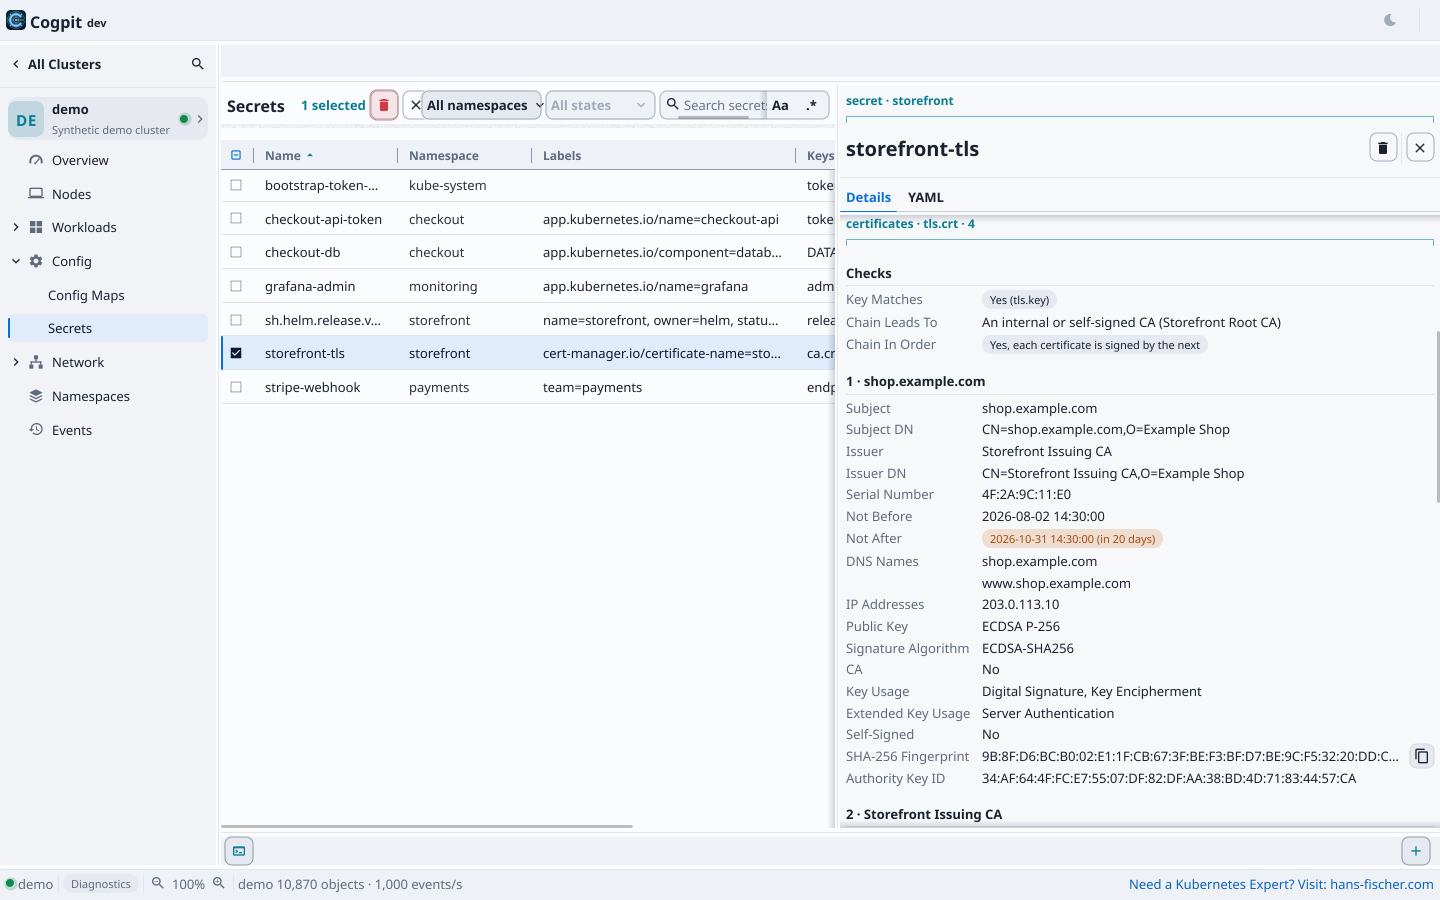
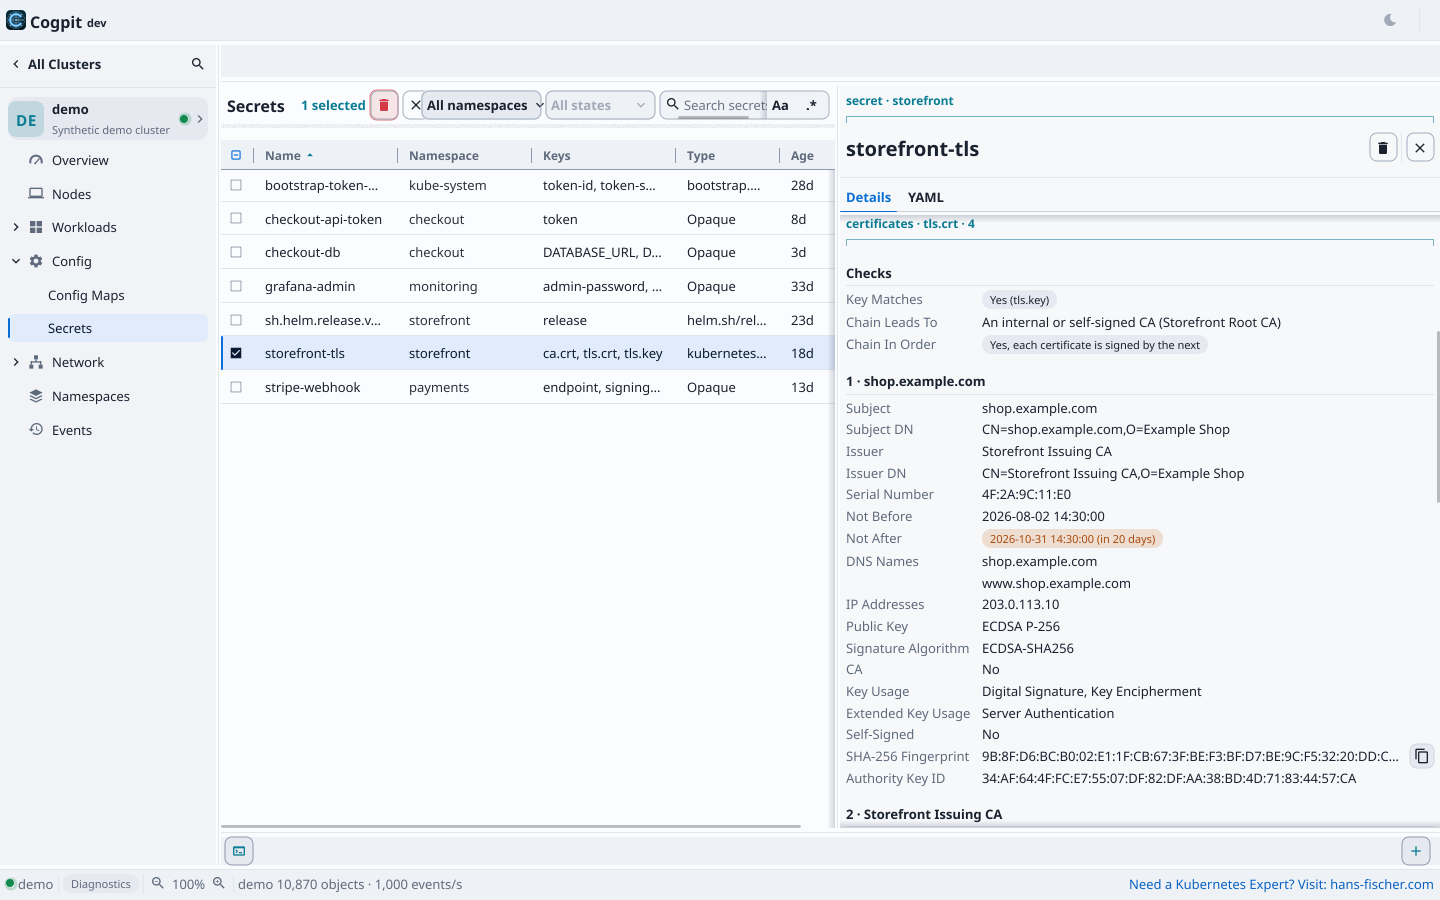
test(ui): the certificates fixture no longer sets the process's random source
certsSecretsFake made its chain under cryptotest.SetGlobalRandom, whose
cleanup writes crypto/rand.Reader back while an earlier test's HTTP/2
health check may read it: Race Tests (UI 4/5) of #161 failed with a data
race in TestDrawerCopyIconAfterThePill. The certificates are testdata
now (made once under the same seed, byte for byte the same) and the
leaf's key comes from its fixed scalar. The renders of the Secrets list
under the drawer follow #160 (Labels hidden).

Changed region(s): [[0.375, 0.1556, 0.5625, 0.4356], [0.4375, 0.9022, 0.5312, 0.9333], [0.5625, 0.1556, 0.5938, 0.1867]]

diff --git a/internal/ui/fyneui/secretcerts_test.go b/internal/ui/fyneui/secretcerts_test.go
@@ -1,47 +1,68 @@
 package fyneui
 
 import (
+	"crypto/ecdsa"
+	"crypto/elliptic"
 	"crypto/x509"
 	"encoding/base64"
+	hexenc "encoding/hex"
+	"encoding/pem"
+	"os"
+	"path/filepath"
 	"strings"
 	"testing"
-	"testing/cryptotest"
 
 	"k8s.io/apimachinery/pkg/apis/meta/v1/unstructured"
 
 	"github.com/guided-traffic/cogpit/internal/engine"
 	"github.com/guided-traffic/cogpit/internal/model"
 	"github.com/guided-traffic/cogpit/internal/model/kinds"
-	"github.com/guided-traffic/cogpit/internal/testkit"
 )
 
 // The drawer of a TLS Secret with its certificates decoded (D-30): the Secrets fixture with
 // storefront-tls holding a real chain (a leaf that expires in 20 days, an intermediate, a root) in
-// tls.crt, the root in ca.crt and the leaf's key in tls.key. Keys and signatures come from a fixed
-// seed, so the fingerprints and the PNGs are the same on every run. Every name is made up.
+// tls.crt, the root in ca.crt and the leaf's key in tls.key. The certificates are files of testdata
+// (made once by testkit.NewCert under cryptotest.SetGlobalRandom's seed 30) and the leaf's key comes
+// from its fixed scalar, so the fingerprints and the PNGs are the same on every run without the
+// process's random source set: setting it back raced with an earlier test's HTTP/2 health check
+// reading it. Every name is made up.
+
+// storefrontKeyScalar is the leaf's P-256 private scalar (a test key of a made-up name).
[1 lines of base64/hex data omitted]
+
+// storefrontKeyPEM is the leaf's key as a PKCS #8 PRIVATE KEY block, as a TLS Secret's tls.key
+// holds it.
+func storefrontKeyPEM(t *testing.T) string {
+	t.Helper()
+	raw, err := hexenc.DecodeString(storefrontKeyScalar)
+	if err != nil {
+		t.Fatal(err)
+	}
+	k, err := ecdsa.ParseRawPrivateKey(elliptic.P256(), raw)
+	if err != nil {
+		t.Fatal(err)
+	}
+	der, err := x509.MarshalPKCS8PrivateKey(k)
+	if err != nil {
+		t.Fatal(err)
+	}
+	return string(pem.EncodeToMemory(&pem.Block{Type: "PRIVATE KEY", Bytes: der}))
+}
+
+// readTestdata returns a file of testdata as text.
+func readTestdata(t *testing.T, name string) string {
+	t.Helper()
+	b, err := os.ReadFile(filepath.Join("testdata", name))
+	if err != nil {
+		t.Fatal(err)
+	}
+	return string(b)
+}
 
 // certsSecretsFake is secretsFake with the drawer open on storefront-tls, whose certificates are
 // real; it returns the PEM texts the drawer must never show.
 func certsSecretsFake(t *testing.T) (*fakeEngine, model.ObjectRef, []string) {
-	cryptotest.SetGlobalRandom(t, 30)
-	root := testkit.NewCert(t, testkit.CertSpec{
-		CommonName: "Storefront Root CA", Organization: []string{"Example Shop"}, Serial: 1, CA: true,
-		NotBefore: fixedNow.AddDate(-2, 0, 0), NotAfter: fixedNow.AddDate(8, 0, 0), Key: testkit.RSAKey(t, 2048),
-	})
-	inter := testkit.NewCert(t, testkit.CertSpec{
-		CommonName: "Storefront Issuing CA", Organization: []string{"Example Shop"}, Serial: 0x1001, CA: true, PathLenZero: true,
-		NotBefore: fixedNow.AddDate(-1, 0, 0), NotAfter: fixedNow.AddDate(2, 0, 0), Key: testkit.ECDSAKey(t), Parent: root,
-	})
-	leaf := testkit.NewCert(t, testkit.CertSpec{
-		CommonName: "shop.example.com", Organization: []string{"Example Shop"}, Serial: 0x4f2a9c11e0,
-		NotBefore: fixedNow.AddDate(0, 0, -70), NotAfter: fixedNow.AddDate(0, 0, 20),
-		DNSNames:    []string{"shop.example.com", "www.shop.example.com"},
-		IPAddresses: []string{"203.0.113.10"},
-		KeyUsage:    x509.KeyUsageDigitalSignature | x509.KeyUsageKeyEncipherment,
-		ExtKeyUsage: []x509.ExtKeyUsage{x509.ExtKeyUsageServerAuth},
-		Key:         testkit.ECDSAKey(t), Parent: inter,
-	})
-	chain, ca, key := string(testkit.Chain(leaf, inter, root)), string(root.PEM()), string(leaf.KeyPEM(t))
+	chain, ca, key := readTestdata(t, "certs/storefront-tls.crt"), readTestdata(t, "certs/storefront-ca.crt"), storefrontKeyPEM(t)
 	enc := func(s string) string { return base64.StdEncoding.EncodeToString([]byte(s)) }
 
 	f, _ := secretsFake(t)
